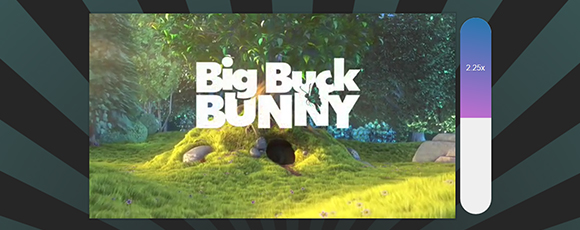
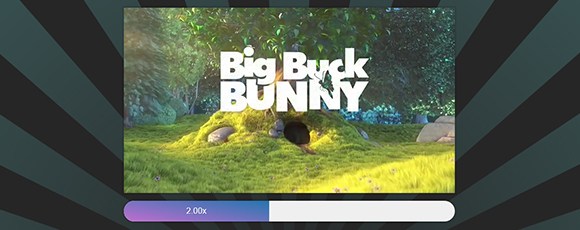
JavaScript30 - 28 - Responsive

diff --git a/src/assets/js/javascript30/28-video-speed-controller.js b/src/assets/js/javascript30/28-video-speed-controller.js
@@ -9,22 +9,22 @@ const video = document.querySelector('.flex');
 // Using an es5 function() because we need 'this' to be equal to the parent <div>.
 function handleMove(e) {
     // Set the Y position, ensuring we anchor it to the parent <div> 'this'.
-    const y = e.pageY - this.offsetTop;
+    const x = e.pageX - this.offsetLeft;
     // Get the percentage filled by dividing y with the height of the parent <div> 'this'.
-    const percent = y / this.offsetHeight;
+    const percent = x / this.offsetWidth;
     // Min/Max playback multiplier.
     const min = 0.4;
     const max = 4;
     // Getting a height value for the 'bar'.
     // Math.round() to get a rounded percentage. (percent * 100) to make it a whole number (2, not 0.02).
-    const height = Math.round(percent * 100) + '%';
+    const width = Math.round(percent * 100) + '%';
     // Calculate the playbackRate.
     // (max - min) + min: Getting the lower and upper bounds.
     // This ensures the playbackRate isn't a value between 0 and 1, instead, it is a value range between the 'min' and 'max', multiplied by 'percentage'.
     const playbackRate = percent * (max - min) + min;
 
     // Set the height of the bar, equal to 'height'.
-    bar.style.height = height;
+    bar.style.width = width;
     // Set the text of the bar, Using the 'playbackRate' value.
     bar.textContent = playbackRate.toFixed(2) + 'x';
     // Play the video at the speed determined by 'playbackRate'.

diff --git a/src/assets/scss/components/javascript30/_28-video-speed-controller.scss b/src/assets/scss/components/javascript30/_28-video-speed-controller.scss
@@ -10,34 +10,30 @@
     align-items: center;
     
     .wrapper {
-        width: 850px;
-        display: flex;
     }
     
     video {
         box-shadow: 0 0 1px 3px rgba(0,0,0,0.1);
+        width: 100%;
     }
     
     .speed {
         background: #efefef;
-        flex: 1;
-        display: flex;
-        align-items: flex-start;
-        margin: 10px;
-        border-radius: 50px;
+        border-radius: 1.5em;
+        margin-top: 0.5em;
         box-shadow: 0 0 1px 3px rgba(0,0,0,0.1);
         overflow: hidden;
+        width: 100%;
     }
     
     .speed-bar {
-        width: 100%;
+        width: 16.3%;
         background: linear-gradient(-170deg, #2376ae 0%, #c16ecf 100%);
         text-shadow: 1px 1px 0 rgba(0,0,0,0.2);
         display: flex;
         align-items: center;
         justify-content: center;
-        padding: 2px;
+        padding: 0.5em;
         color: white;
-        height: 16.3%;
     }      
 }

diff --git a/src/pages/portfolio/development/javascript30/28-video-speed-controller.html b/src/pages/portfolio/development/javascript30/28-video-speed-controller.html
@@ -55,7 +55,7 @@ canonical: https://corey-noble.com/portfolio/development/javascript30/28-video-s
     <div class="row">
         <div class="small-12 column">
             <div class="wrapper">
-                <video class="flex" width="765" height="430" src="{{root}}assets/video/javascript30/11-custom-video-player/11-custom-video-player-example.mp4" loop controls></video>
+                <video class="flex" src="{{root}}assets/video/javascript30/11-custom-video-player/11-custom-video-player-example.mp4" loop controls></video>
                 <div class="speed">
                     <div class="speed-bar">1×</div>
                 </div>
